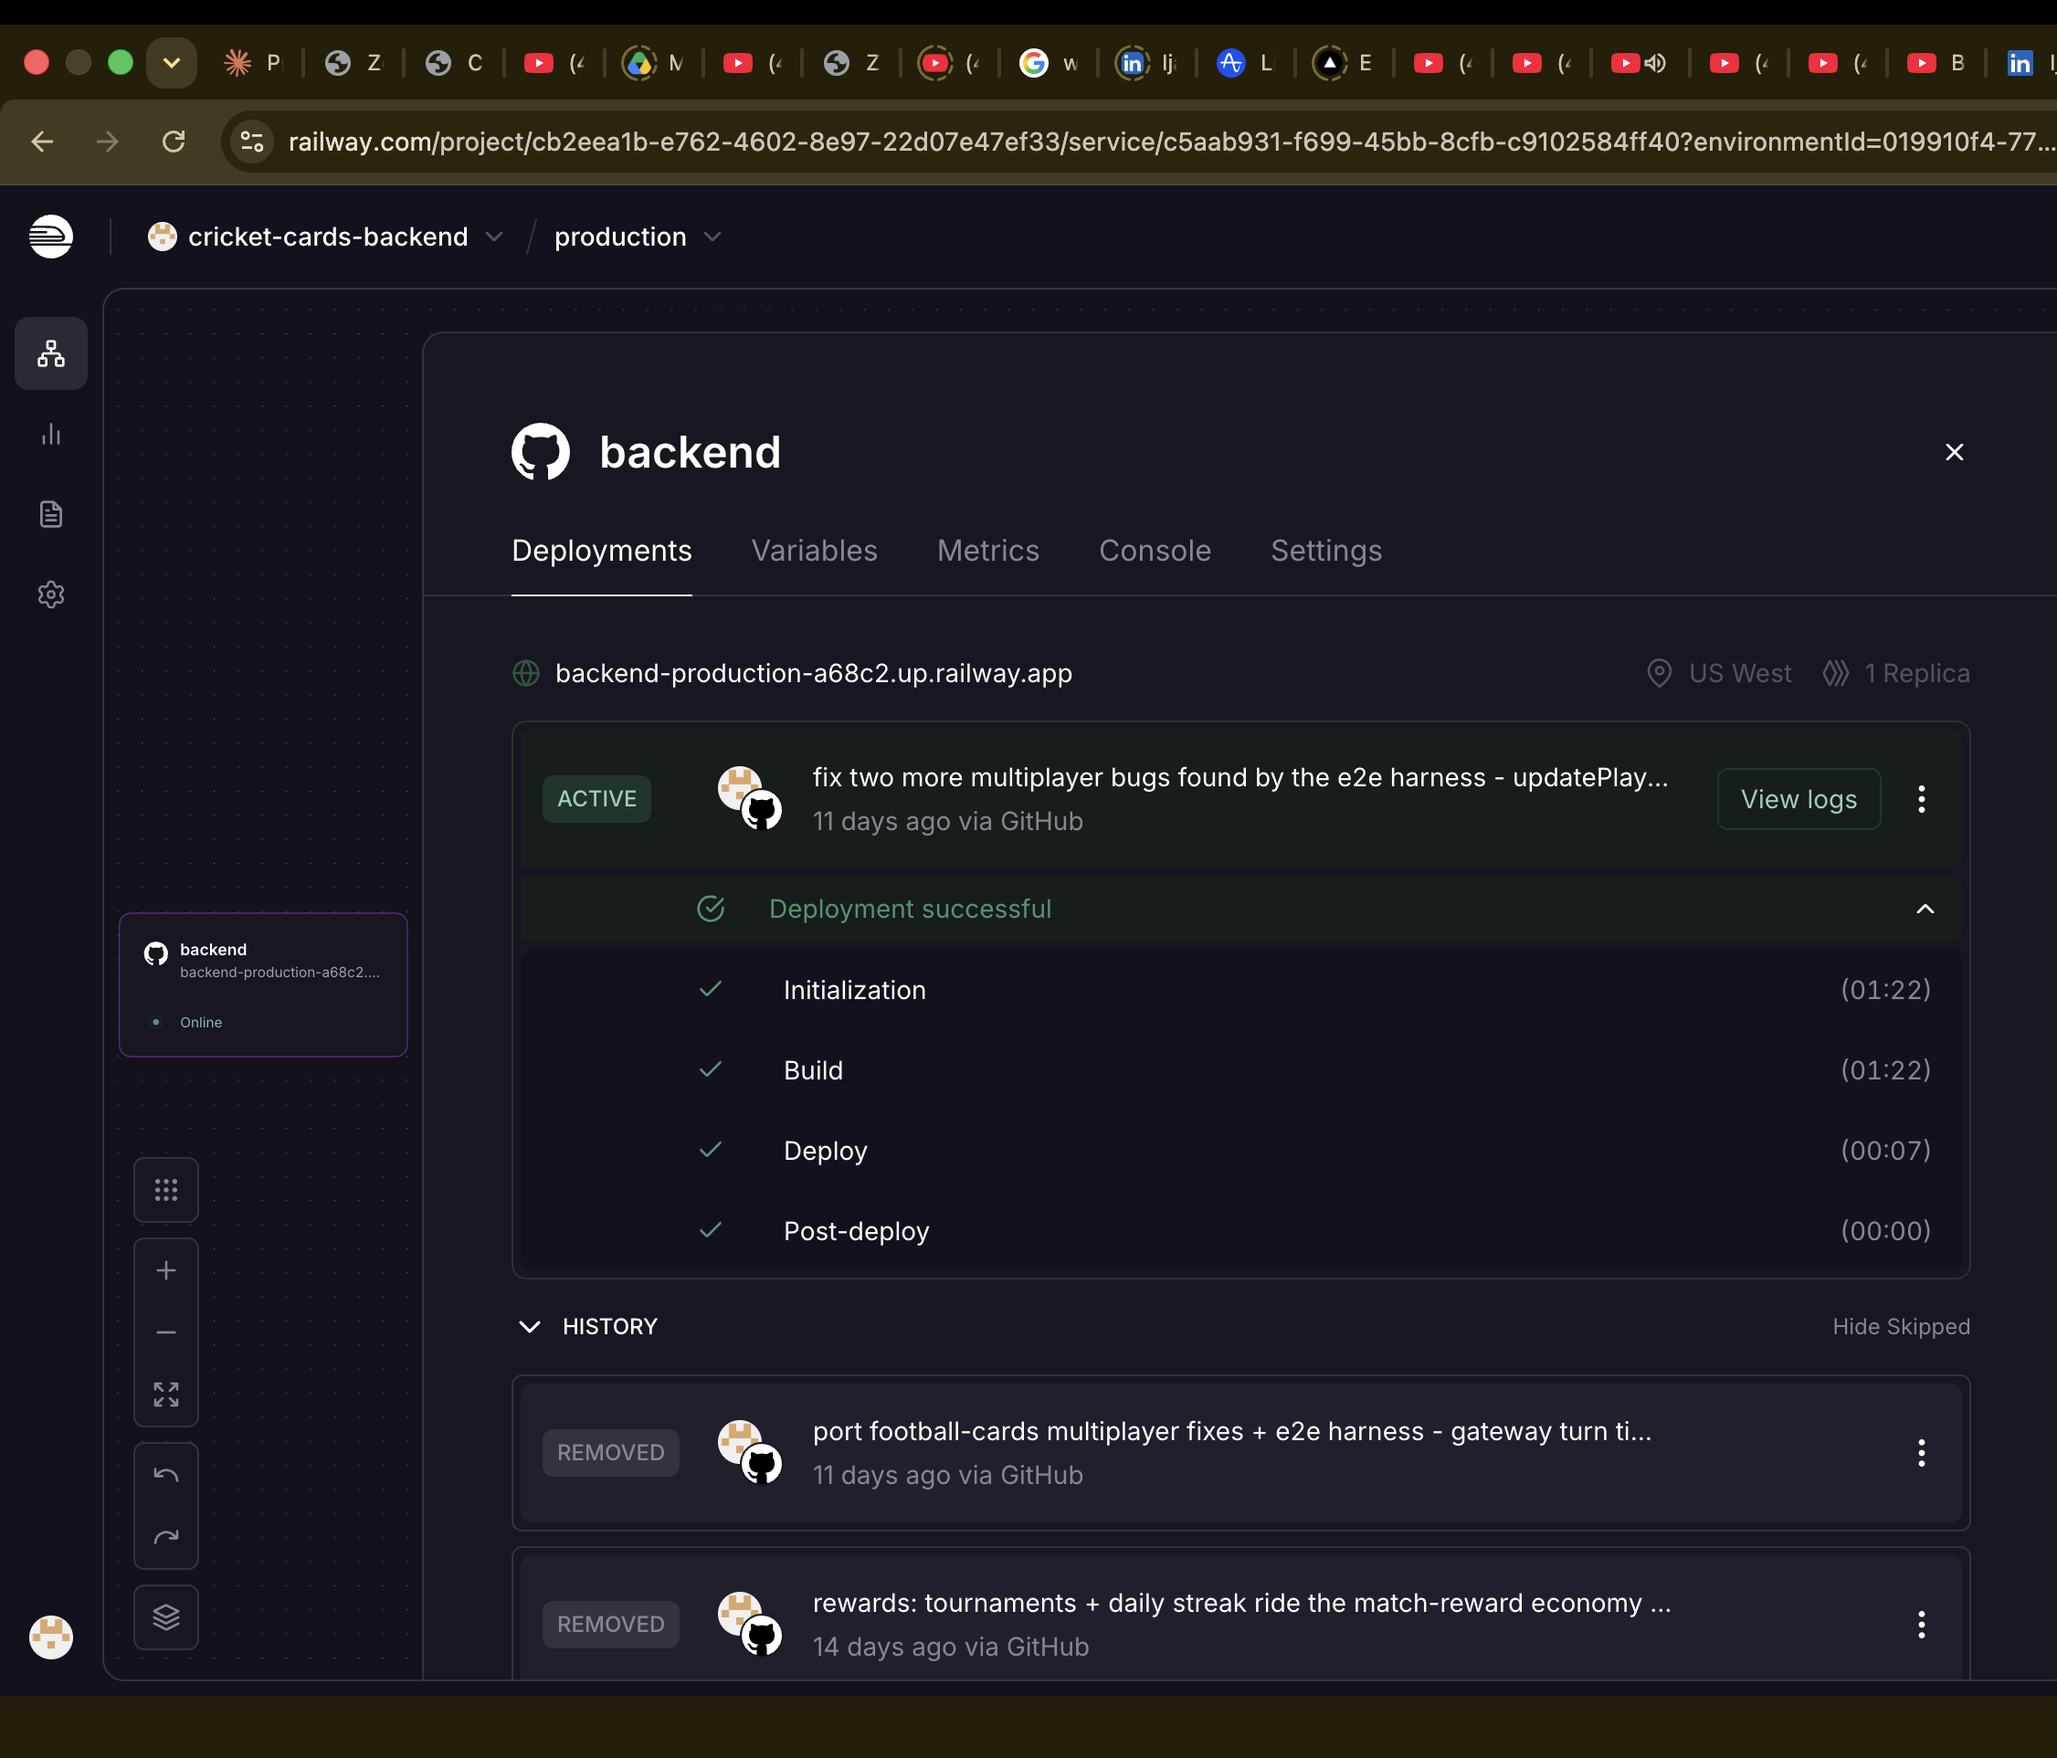
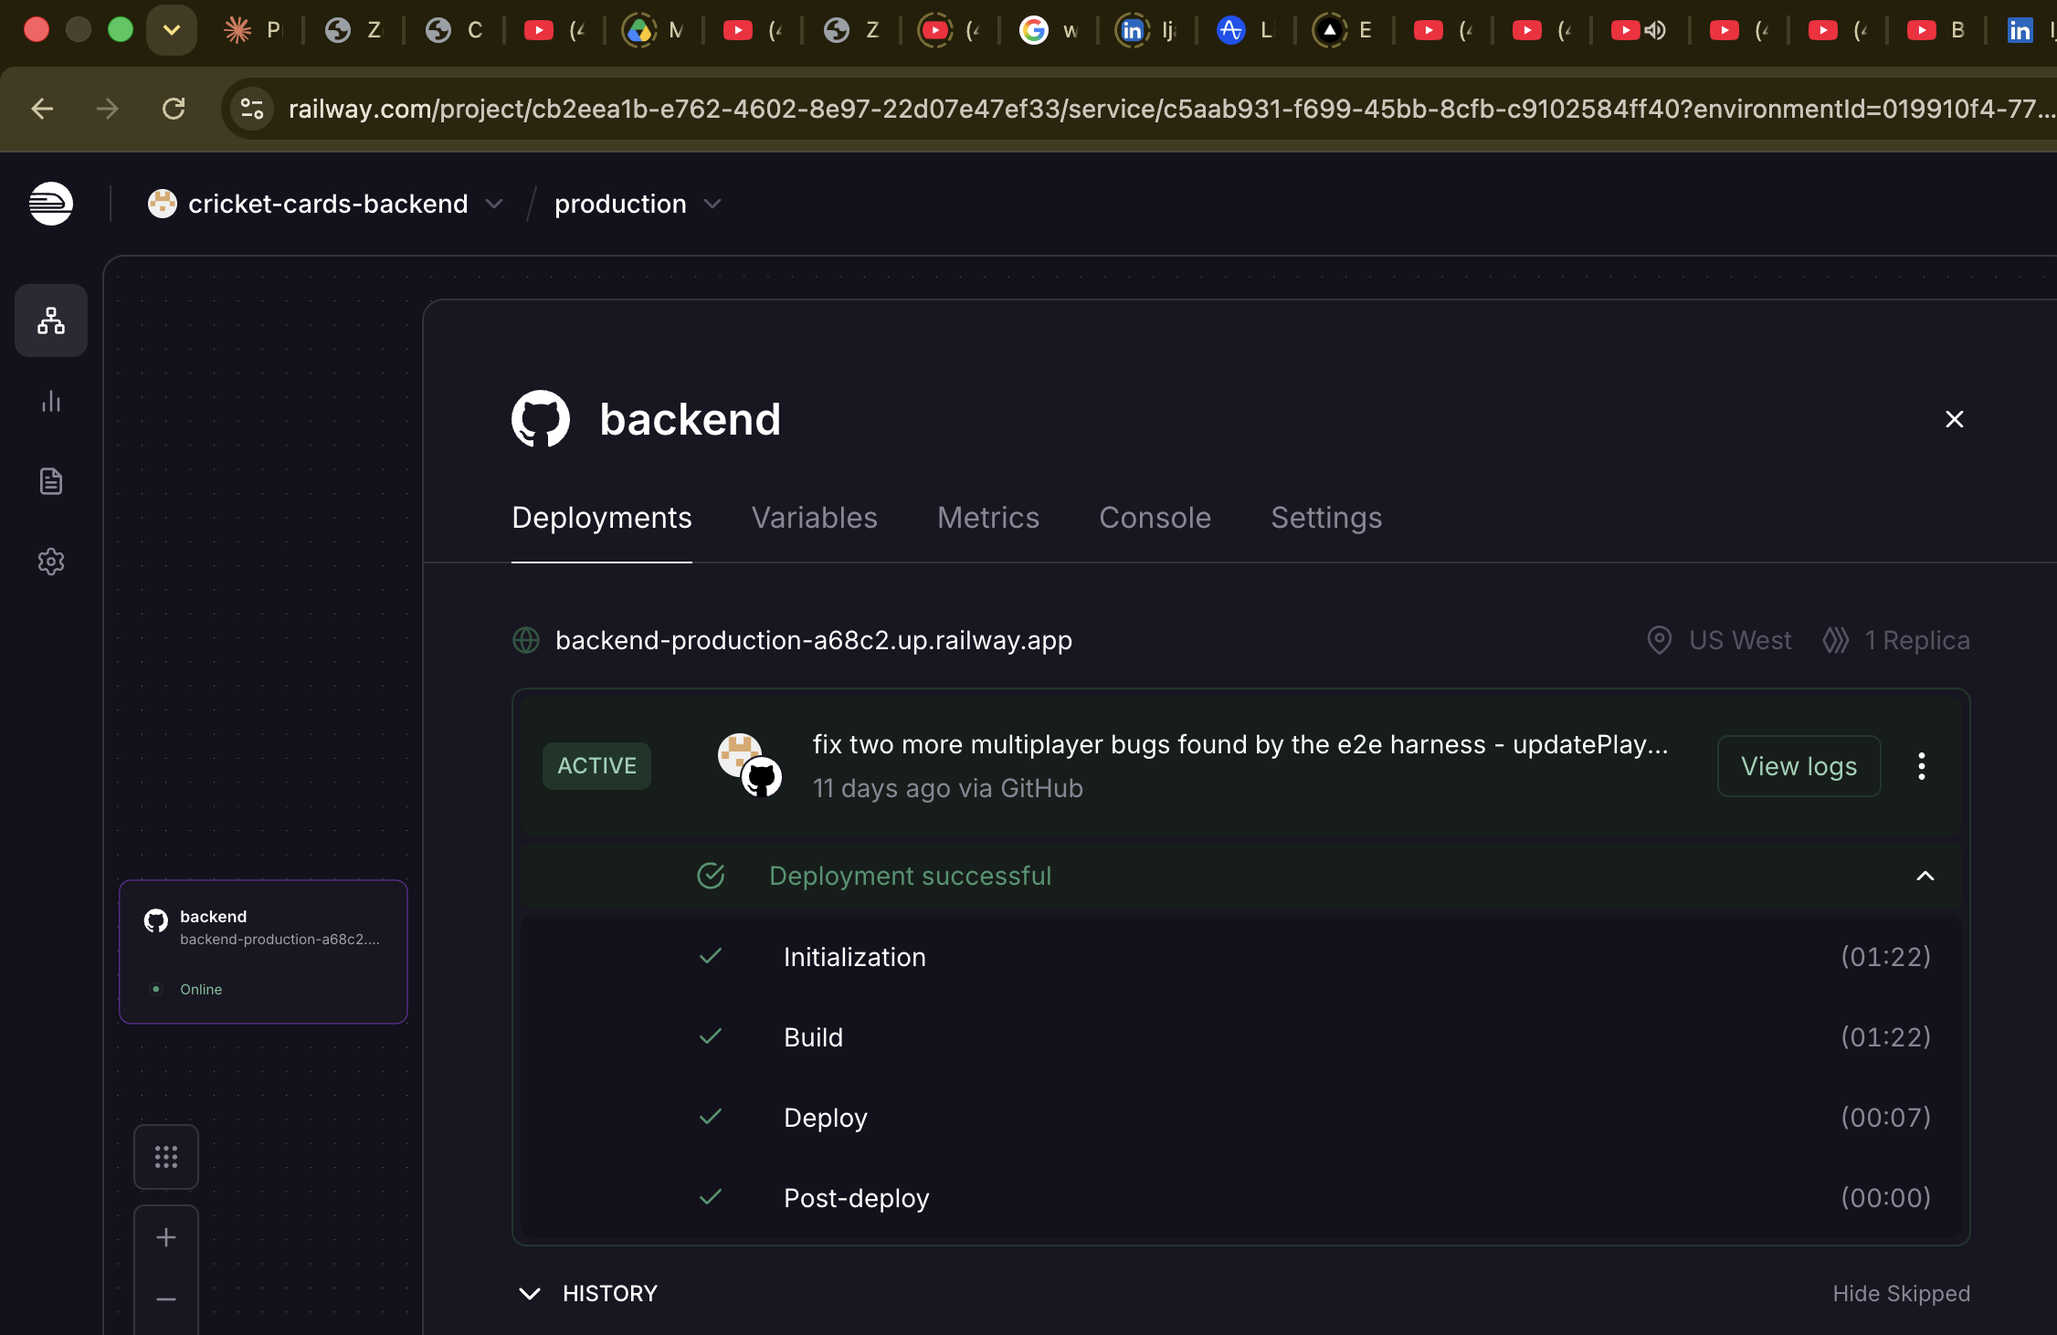
story deck: d-atlas on storage slide (no dup mongo), railway cropped to matching aspect

diff --git a/docs/story/index.html b/docs/story/index.html
@@ -313,7 +313,7 @@
     <div class="col stagger" style="gap:6px"><div class="kicker">Chapter 7 · data &amp; storage</div><h2><span class="grad">MongoDB</span> + <span class="grad">Railway.</span></h2></div>
     <div class="fill row mt-s" style="gap:1.5vw;align-items:stretch">
       <div class="col" style="flex:1;gap:9px">
-        <div class="panel" style="padding:7px;border-radius:12px"><img src="assets/d-mongodb.png" alt="" style="width:100%;border-radius:7px;display:block"></div>
+        <div class="panel" style="padding:7px;border-radius:12px"><img src="assets/d-atlas.png" alt="" style="width:100%;border-radius:7px;display:block"></div>
         <div><h3 class="green">🍃 MongoDB Atlas — the data layer</h3><p style="margin-top:3px">Every card, user and match — the source of truth. <span class="chip" style="margin-left:4px">651 active cards</span> <span class="chip">users</span> <span class="chip">matches</span></p></div>
       </div>
       <div class="col" style="flex:1;gap:9px">
